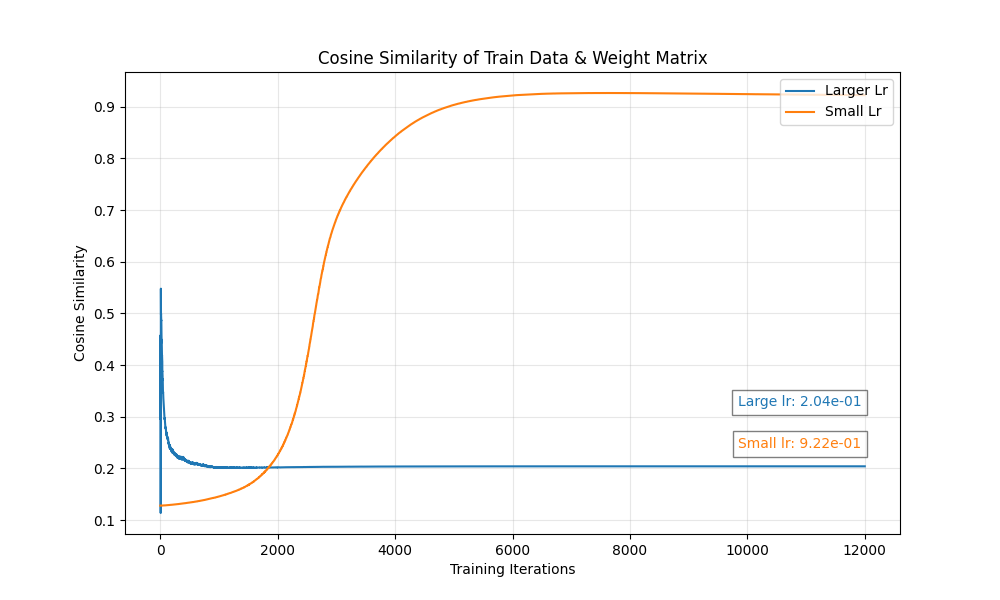
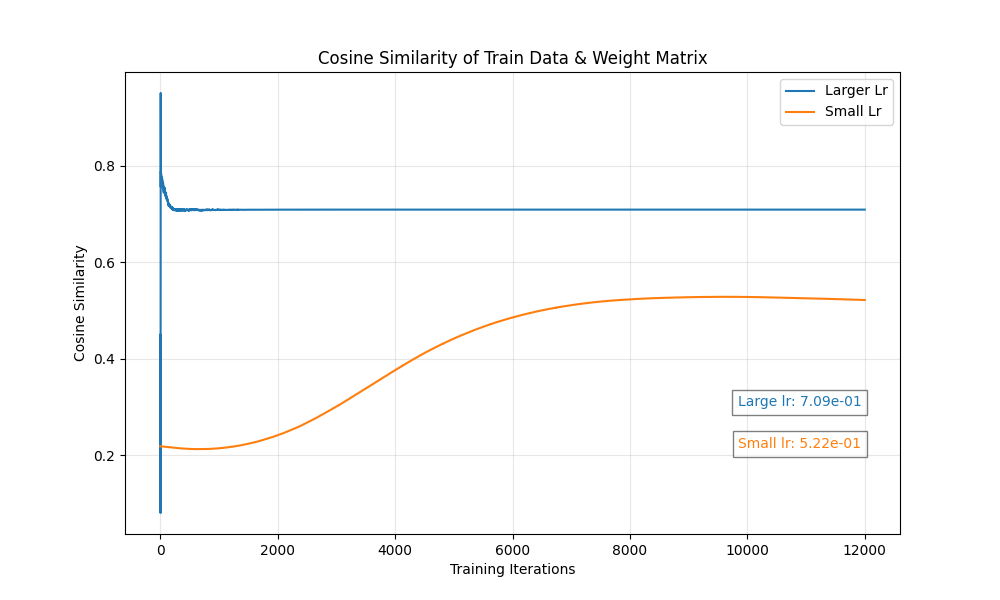
base comparisions done

diff --git a/utils.py b/utils.py
@@ -76,31 +76,33 @@ def generate_highrank_matrix(dim=1000, target_condition=1, sparsity=0.1):
   
   return A_sparse
 
-def generate_lowrank_matrix(dim, target_rank, sparsity):
-  """Generate a low rank matrix with controlled rank and sparsity."""
-  # Create orthogonal basis for column space
-  U, _ = np.linalg.qr(np.random.randn(dim, target_rank))
+def generate_lowrank_matrix(dim, target_rank, sparsity=0):
+  # Step 1: Create factors that will give us a low rank matrix
+  # Using random normal matrices of appropriate dimensions
+  A_left = np.random.randn(dim, target_rank)
+  A_right = np.random.randn(target_rank, dim)
   
-  # Create sparse mask
-  sparse_mask = sparse_random(
-      dim, dim, density=sparsity, 
-      random_state=42
-  ).astype(bool).toarray()
+  # Step 2: Matrix multiplication to create the low rank matrix
+  # This ensures rank ≤ target_rank
+  A = np.dot(A_left, A_right)
   
-  # Construct matrix
-  A = U @ U.T  # Rank target_rank orthogonal projection
-  A = A * sparse_mask  # Apply sparsity
-
-  A = csr_matrix(A)
-  actual_cond = cond(A.toarray())
-  nnz = A.count_nonzero()
+  # Step 3: Add minimal noise to ensure numerical stability
+  # The small magnitude ensures we don't significantly affect the rank
+  noise = np.random.randn(dim, dim) * 1e-10
+  A += noise
+  
+  # Return as sparse matrix format for consistency
+  A_sparse = csr_matrix(A)
+  A_dense = A_sparse.toarray()
+  actual_cond = cond(A_dense)
+  nnz = np.count_nonzero(A_dense)
   
   print(f"Dimension: {A.shape}")
-  print(f"Effective rank: {compute_ranks(A.toarray())}")
+  print(f"Effective rank: {compute_ranks(A)}")  # Fixed: use A directly
   print(f"Condition number: {actual_cond:.2f}")
   print(f"Sparsity: {nnz/(dim*dim):.4f}")
   
-  return csr_matrix(A)
+  return A_sparse
 
 colors = {'exp': '#1f77b4', 'ctrl': '#ff7f0e'}
 def add_annotation_2(ax, exp_val, ctrl_val, exp_color, ctrl_color, fmt):

diff --git a/intuition.py b/intuition.py
@@ -388,12 +388,13 @@ def experiment2():
   generate_viz_4(exp, ctrl1, ctrl2, ctrl3, name=f'{TYPE}-wd')
 
 def experiment3():
-  for i in ['ls', 'ld', 'hd', 'hs']:
+  # for i in ['ls', 'ld', 'hd', 'hs']:
+    i = 'ld'
     print("Generating Dataset...")
     train_dataset, test_dataset = generate_data(NUM_SAMPLES, INPUT_DIM, type=i)
 
     print("Training Catapult Model...")
-    exp = train_model_intu(train_dataset, test_dataset, 0.1, 1500, weight_decay=0.00)
+    exp = train_model_intu(train_dataset, test_dataset, 0.11, 1500, weight_decay=0.00)
 
     print("Training Control Model...")
     ctrl = train_model_intu(train_dataset, test_dataset, 0.001, 1500, weight_decay=0.00)

diff --git a/data.py b/data.py
@@ -29,7 +29,7 @@ def create_A(input_dim, type):
       A = generate_highrank_matrix(dim=input_dim, target_condition=1, sparsity=0.9)
       
   elif type == 'ld':
-      A = generate_lowrank_matrix(input_dim, 3, 0.01)
+      A = generate_lowrank_matrix(input_dim, 3)
   else:
       A = np.zeros((input_dim, input_dim), dtype=int)
       A[0, 0] = 1
